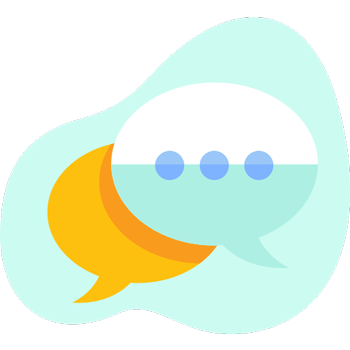
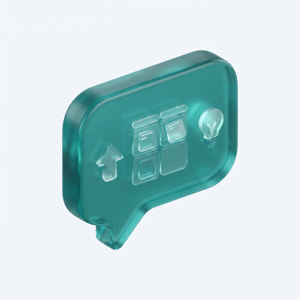
add theme cover png

diff --git a/assets/css/main.css b/assets/css/main.css
@@ -6472,6 +6472,22 @@ body.is-fullscreen #page_form {
     margin-top: 0px;
   }
 
+  .md\:mt-12 {
+    margin-top: 3rem;
+  }
+
+  .md\:mt-24 {
+    margin-top: 6rem;
+  }
+
+  .md\:mt-1 {
+    margin-top: 0.25rem;
+  }
+
+  .md\:mt-16 {
+    margin-top: 4rem;
+  }
+
   .md\:block {
     display: block;
   }

diff --git a/README.md b/README.md
@@ -79,4 +79,19 @@ Use **Yarn** only (lockfile: `yarn.lock`).
 
 ## Preview images
 
-Theme preview thumbnails are referenced in `config/settings_schema.json` under `theme_preview_images` (upload to theme assets when publishing).
+Marketing assets for the template marketplace and official site live under `assets/images/theme/`:
+
+| Asset | Path | Size |
+|-------|------|------|
+| Template icon | `assets/images/theme/thumb.png` | 300×300 |
+| Poster cover (zh-CN) | `assets/images/theme/zh-CN/cover.png` | 16:9 (2560×1440) |
+| Poster cover (en) | `assets/images/theme/en/cover.png` | 16:9 (2560×1440) |
+| Homepage screenshot | `assets/images/theme/{lang}/index.png` | 16:9 |
+| Roadmap screenshot | `assets/images/theme/{lang}/roadmap.png` | 16:9 |
+| Detail page screenshot | `assets/images/theme/{lang}/page.png` | 16:9 |
+
+`{lang}` is `zh-CN` or `en`. Preview URLs in `config/settings_schema.json` (`theme_thumb_url`, `theme_preview_images`) use paths relative to `assets/` without the prefix (e.g. `images/theme/thumb.png`).
+
+Reference Demo screenshots (for prompt authoring): `assets/images/theme/screenshots/`.
+
+Prompt files used for AI generation: `data/theme-assets/prompts/` (local, gitignored under `data/`).